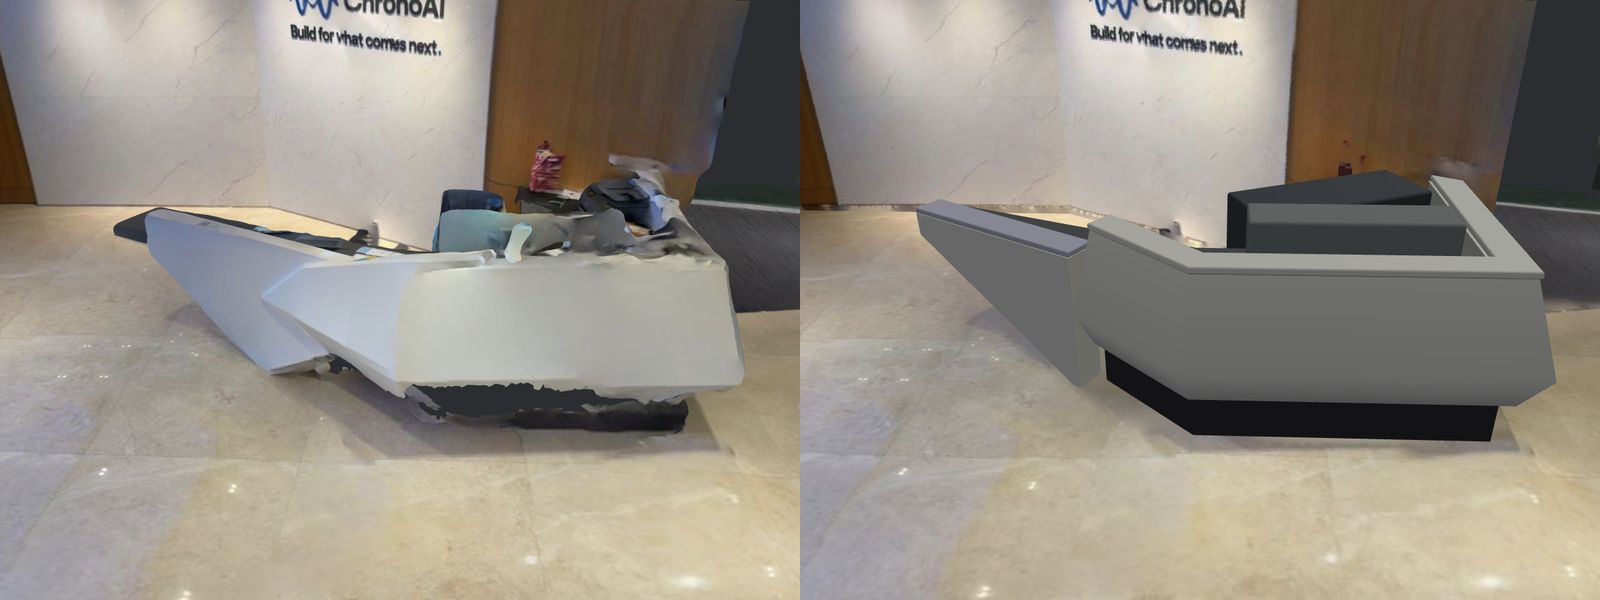
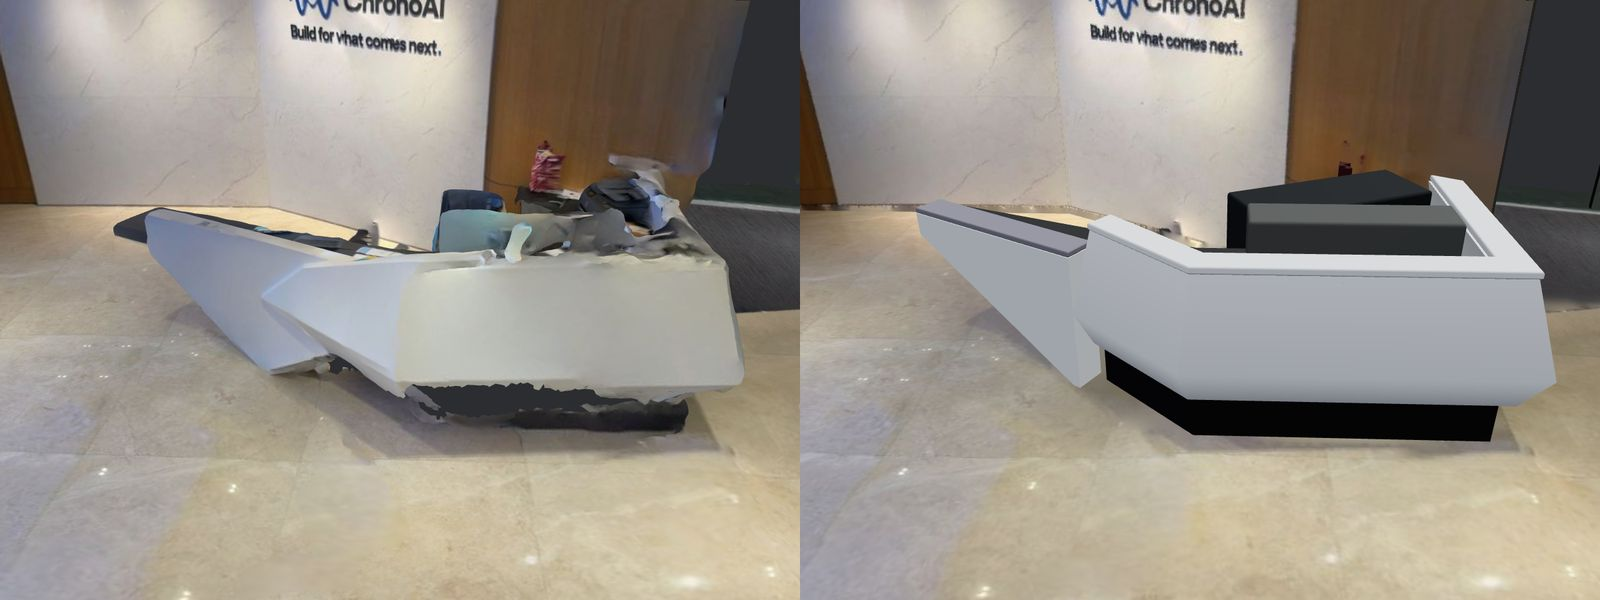
前厅验收结果图和指标：合并物体、结构两边的改进后重跑；README 写明重建效果和已知不足
家具区平均偏差 2.63 厘米（两边合并后 2.69），物体 + 结构合计 371,720 字节。
README 新增"前厅重建效果"一节：怎么跑、指标、做得好的、已知不足（入口门框、展示柜、
会议椅、桌上杂物、窗边转角的高柜、网站灯光偏暗）。

Claude-Session: https://claude.ai/code/session_01FJGySrWzKJ4gCuSB2XMwW7

Changed region(s): [[0.5625, 0.27, 0.9688, 0.69]]

diff --git a/worker/README.md b/worker/README.md
@@ -143,7 +143,8 @@ uploads { _id: 上传编号（字符串，也是数据块的 files_id）, spaceI
 6. **结构 + 物体重建**（`rebuild: false` 时跳过）：结构见 `processing/structure.py`（地面带贴图；墙是朝房间
    一侧的贴图面板 + 纯色墙体，没扫到的墙面用同一面墙的中位色补；玻璃是浅蓝灰纯色玻璃 + 竖梃 + 窗台，不用贴图；
    墙顶统一高度）。任务参数里的 `hints` 也交给结构：内点大多落在某个提示物体盒子里的大平面（LED 大屏）不当墙，
-   靠墙放的提示物体不印进墙面贴图。物体调用 `processing.objects.reconstruct_objects`（见下）；
+   靠墙放的提示物体不印进墙面贴图。物体调用 `processing.objects.reconstruct_objects`（见下），效果见
+   "前厅重建效果"；
 7. **一次提交**（事务外先按内容哈希登记资源、物件记录、锚点记录）：
 
    ```
@@ -260,6 +261,47 @@ METAVERSE_TEST_MONGODB_URI='mongodb://127.0.0.1:27018/?replicaSet=rs0' .venv/bin
 - 自动对齐：绕竖直轴 −61.42°，摆正倾斜 0.09°；对齐后范围约 11.7 × 3.3 × 17.4 米；
 - 网页用模型：`[0]` **12.4MB**（29.4 万三角形、贴图 4096²）；`[1]` 2.4MB（5.9 万三角形、贴图 1024²）；
 - 结构物件 7 个：地面 1（128.3 平方米）、墙 5（含一段斜墙）、玻璃 1。
+
+## 前厅重建效果（验收脚本）
+
+```bash
+cd worker
+.venv/bin/python scripts/reconstruct_lobby.py --scan <mesh.drc> --texture <tex.jpg> --out <输出目录> \
+    --hints scripts/lobby_hints.json --render --three <three 包目录>
+```
+
+对比图和指标在 `scripts/results/`（`compare_*.jpg` 左边是扫描、右边是重建，剖切掉 2.3 米以上；
+`lobby_metrics.json`）。对比图查看页（`scripts/viewer/index.html`）里带贴图的部分不打光（贴图本身带着扫描的
+烘焙光照），纯色部件按网站同样的材质、灯光和 ACES 色调映射着色，所以纯色部件的明暗就是网站上的样子。
+
+| 指标 | 结果 | 要求 |
+|---|---|---|
+| 家具区平均偏差 `furnitureZone.meanCm`（第 3 轮口径） | 2.63 厘米（90% 分位 6.23，3 厘米内 70.3%） | ≤ 3 厘米 |
+| 物体 + 结构合计 `sizes.allTotalBytes` | 371,720 字节（约 0.37MB；物体贴图 16 张 88KB，结构贴图 227KB） | ≤ 3MB |
+| 物体重建耗时 | 约 36 秒（4 核） | — |
+
+做得好的：
+
+- **前台**：外壳是折面放样 + 台面 + 工作台面，踢脚线内收、黑色，白色外壳在网站灯光下是白的
+  （浅色单一材质取最亮的 10%，接近白色的中性色按白色处理）；
+- **LED 大屏**：正面一块贴图面板（画面完整，底下的程序坞也在），后面是深色机身，两侧音箱、底座、
+  地上的盒子各是一个圆角盒；从背面看是黑色机身，不再印镜像的画面；
+- **沙发**：底座 + 分块坐垫 + 分块靠背垫 + 卷边扶手，一个面料颜色；
+- **会议桌**：跑道形大理石台面，两端两个规整的木头柱脚；桌上的东西底面贴着台面；
+- **墙、玻璃**：墙是朝房间一侧的贴图面板 + 纯色墙体，玻璃是纯色玻璃 + 竖梃 + 窗台。
+
+已知不足：
+
+- **入口的门框**（`cabinet-02`：木门板 + 玻璃隔断 + 门头横条）仍是分层挤出：门头那一段按 1.3–2.6 米整段
+  挤出，像一块从半空挂下来的斜板，俯视是一条灰色的 S 形带；试过按竖直平面分块，扫描里玻璃隔断的点太散，
+  效果更差，没有采用；
+- **展示柜**是一块纯黑的圆角盒：面上是镜子，扫描里是房间的倒影，没有分出隔板；
+- **会议椅**的靠背是一圈 C 形厚带，比实物粗；一把被桌子挡住的椅子（`chair-04`）和桌边的点混在一起，
+  拟合成一个怪样子（自身偏差 11 厘米）；
+- **桌上的东西**是几块浅灰的多边形块，比实物（纸、袋子）规整、也更"实"；
+- 窗边转角的高柜子（`cabinet-06`）是分层挤出 + 贴图，侧面有台阶状的边；
+- 白色前台以外的纯色部件（沙发、椅子）用扫描的中位色，网站的灯光偏暗，背光的面会比扫描暗一些；
+- 拿掉误检的墙（LED 大屏）、靠墙物体不印进墙面，都只对提示里写明的物体有效。
 
 ## 已知限制
 
